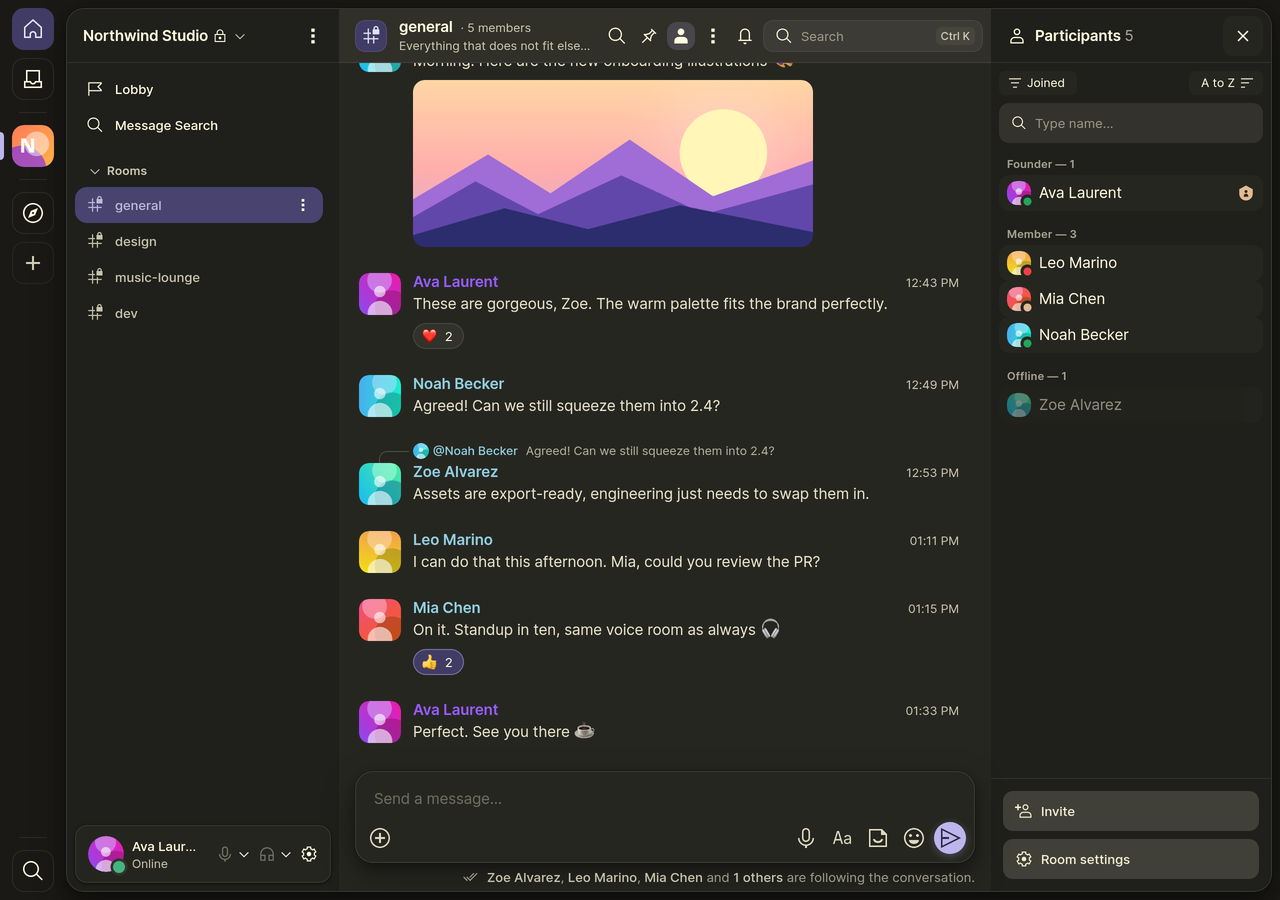
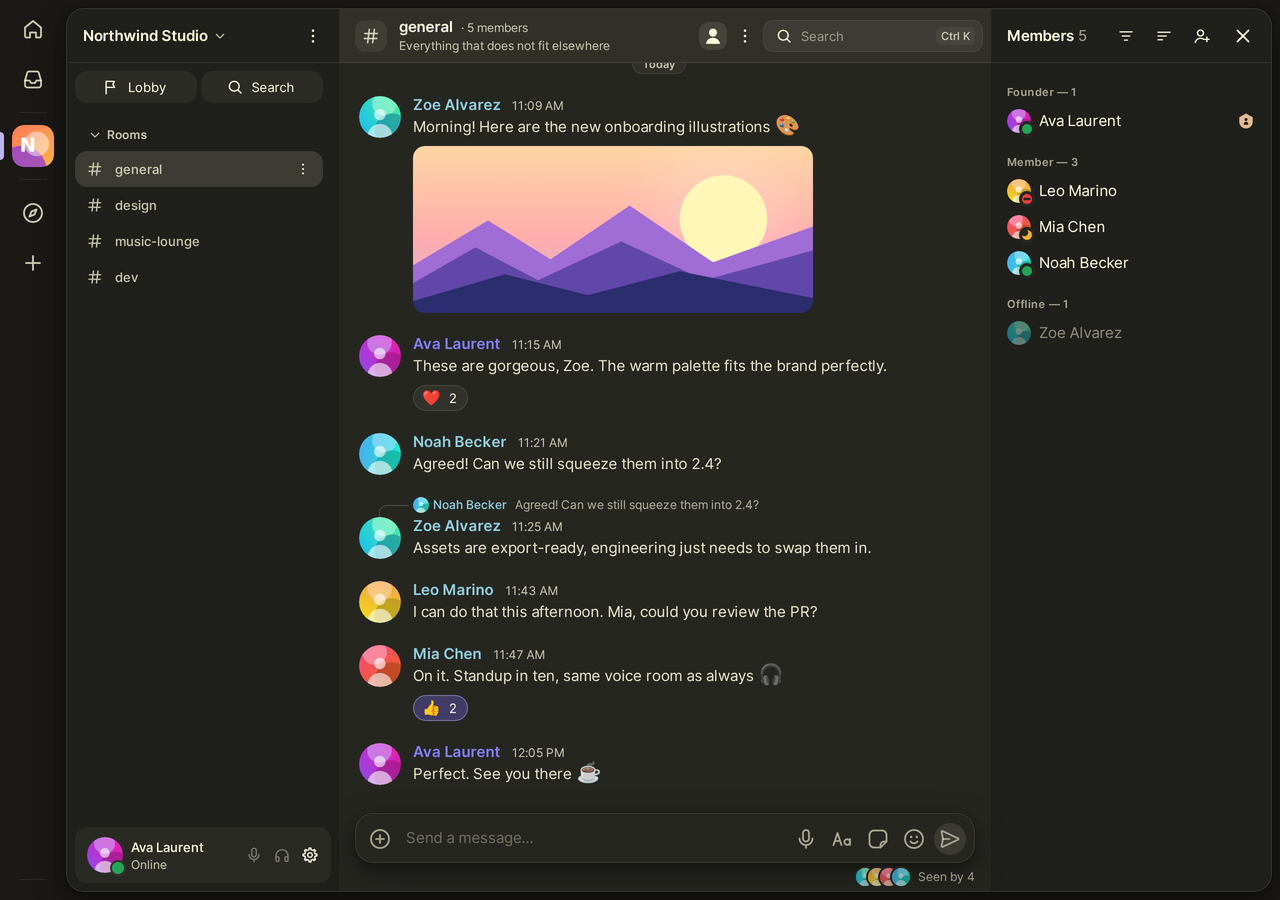
Update README and screenshots for the new UI; make the Linux screenshot run reliable

diff --git a/docs/screenshots/README.md b/docs/screenshots/README.md
@@ -31,4 +31,16 @@ python3 tests/screenshots/montage.py    # themes.png, shrinks the single images 
 - Linux: set `DIDDY_SHOTS_CHROME=/path/to/chrome` to render with an installed Chrome instead.
 - `SHOTS_ONLY=diddy,settings` renders only some images; `DIDDY_SHOTS_OUT=<dir>` changes the output folder.
 
-On Linux, Synapse is available with `nix build nixpkgs#matrix-synapse`.
+On Linux, Synapse is available with `nix build nixpkgs#matrix-synapse`, or without Nix in a venv:
+`python3 -m venv venv && venv/bin/pip install matrix-synapse`, then
+`venv/bin/python -m synapse.app.homeserver --server-name localhost --config-path homeserver.yaml --generate-config --report-stats=no`
+and add `enable_registration`, `enable_registration_without_verification`, generous `rc_*` limits and
+`app_service_config_files` (see above) to `homeserver.yaml`. Keep its data outside `/tmp` if `/tmp` is a
+small tmpfs.
+
+Chrome on Linux: use the browser Playwright installs (`npx playwright install chromium-headless-shell`,
+the version must match the installed Playwright) and point `DIDDY_SHOTS_CHROME` at its
+`chrome-headless-shell`. The config starts it with `--disable-dev-shm-usage`, because a small
+`/dev/shm` (as in containers) makes Chrome crash while taking the screenshot. Without an emoji font
+the emoji in the images are empty boxes: put `NotoColorEmoji.ttf` (googlefonts/noto-emoji, tag
+`v2.047`) into `~/.local/share/fonts` and run `fc-cache -f`.

diff --git a/README.md b/README.md
@@ -72,6 +72,9 @@ Online, Idle, Do Not Disturb and Invisible. Do Not Disturb silences message soun
 More details:
 
 - **Chat:** voice messages that show up as voice messages in Element, a right-click menu with *Copy Text*, *Join All Rooms* for spaces, and a calm member list split by online and offline.
+- **Notifications in the window:** while Diddy is in front, new messages and invitations slide in as cards at the top (click opens the room, swipe up dismisses), and incoming calls arrive as a banner with answer and decline. In the background the system notification is used.
+- **Calm interface:** an own icon set, neutral highlights with the accent kept for mentions and sending, room updates folded into one line ("4 joined · 4 invited"), a one-line composer and voice messages with a scrubbable waveform.
+- **Settings by topic:** *Appearance*, *Chat*, *Notifications* and *Calls & Audio*, with a search that finds every single setting.
 - **Music stays loud:** with *Voice processing* off, Diddy records the microphone directly through Core Audio, so macOS no longer ducks other apps when you join a call.
 - **Call alerts:** on iOS, optional push alerts through [ntfy](https://ntfy.sh) ("Name is calling you") when someone calls and the app is closed.
 - **Connection profiles:** if a homeserver is down, open another one in its own window with a separate login and data store. Your existing account and keys stay untouched.
